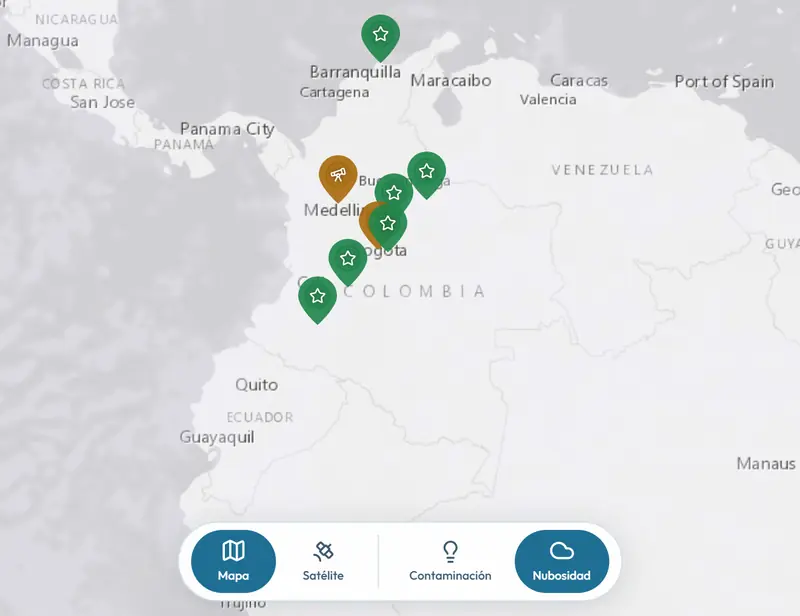
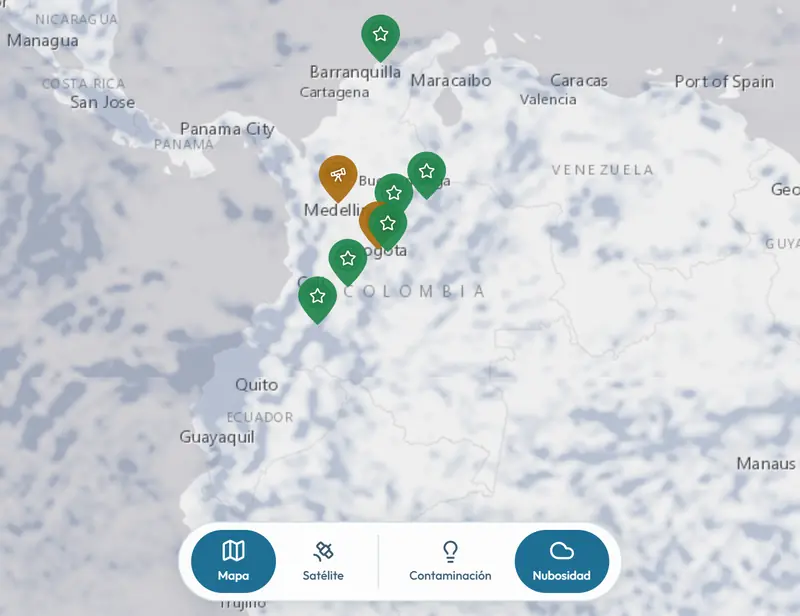
Nubosidad legible en tema claro
Las teselas de OpenWeatherMap son blancas y se perdían sobre el mapa
gris claro. En tema claro se tiñen de azul pizarra con un filtro CSS
(variable --clouds-filter); en tema oscuro y sobre el satélite siguen
blancas (#map lleva .base-satellite). El filtro acompaña al fundido de
la base y se desactiva con prefers-reduced-motion.

La guía (RF13) explica el color y se regenera su captura en tema claro.

diff --git a/css/styles.css b/css/styles.css
@@ -29,6 +29,7 @@
   --glass-panel:    rgba(13, 27, 42, 0.97);
   --glass-switcher: rgba(13, 27, 42, 0.90);
   --backdrop:       rgba(3, 8, 15, 0.65);  /* fondo tras la guía de uso (RF13) */
+  --clouds-filter:  none;                  /* nubes blancas: ya contrastan con el mapa oscuro */
   --trans:          0.2s ease;
 }
 
@@ -59,6 +60,9 @@ html.light-theme {
   --glass-panel:    rgba(255, 255, 255, 0.97);
   --glass-switcher: rgba(255, 255, 255, 0.92);
   --backdrop:       rgba(13, 27, 42, 0.45);
+  /* Las teselas de OpenWeatherMap son blancas y se pierden sobre el gris
+     claro: se tiñen de azul pizarra para que la nubosidad se lea */
+  --clouds-filter:  brightness(0.32) sepia(1) hue-rotate(180deg) saturate(2.5);
 }
 
 /* Botón de tema: muestra el sol en oscuro (pasar a claro) y la luna en
@@ -453,8 +457,18 @@ html, body {
    de cada tile layer (className 'gis-fade'). Duración = FADE_MS en map.js */
 .gis-fade { transition: opacity 0.4s ease; }
 
+/* Capa de nubosidad: tinte según el tema. Sobre el satélite (oscuro)
+   se dejan blancas en ambos temas; map.js marca #map con .base-satellite.
+   El filtro acompaña al fundido de la base al cambiar de tema o de vista. */
+.gis-clouds {
+  filter: var(--clouds-filter);
+  transition: opacity 0.4s ease, filter 0.4s ease;
+}
+.base-satellite .gis-clouds { filter: none; }
+
 @media (prefers-reduced-motion: reduce) {
-  .gis-fade { transition: none; }
+  .gis-fade,
+  .gis-clouds { transition: none; }
 }
 
 .leaflet-popup-tip { background: var(--bg-panel) !important; }

diff --git a/js/map.js b/js/map.js
@@ -131,7 +131,7 @@ export function initMap(owmApiKey = '', geeTileUrl = '') {
           opacity: CLOUDS_OPACITY,
           maxZoom: MAX_ZOOM,
           zIndex: 2,
-          className: 'gis-fade',
+          className: 'gis-fade gis-clouds', // gis-clouds: tinte en tema claro (CSS)
           attribution: 'Nubes: <a href="https://openweathermap.org">OpenWeatherMap</a>',
           errorTileUrl: '',
         }
@@ -735,6 +735,8 @@ function buildLayerSwitcher({ mapBases, lightPollutionLayer, cloudsLayer, satell
 
         currentBase = id;
         setActive(groupBase, btn);
+        // Sobre el satélite las nubes quedan blancas, sin el tinte del tema claro
+        map.getContainer().classList.toggle('base-satellite', id === 'satellite');
 
       } else {
         // Overlay: pulsar el activo lo apaga (queda sin overlay)

diff --git a/partials/guide.html b/partials/guide.html
@@ -111,7 +111,11 @@
   </p>
 
   <h3>Nubosidad</h3>
-  <p>Muestra las nubes que hay ahora mismo sobre el mapa.</p>
+  <p>
+    Muestra las nubes que hay ahora mismo sobre el mapa. Se ven <strong>blancas</strong> en el
+    tema oscuro y en la vista Satélite, y <strong>azul grisáceo</strong> en el tema claro, para
+    que se distingan del fondo.
+  </p>
 
   <h3>Cómo usar estas dos capas</h3>
   <ul>
